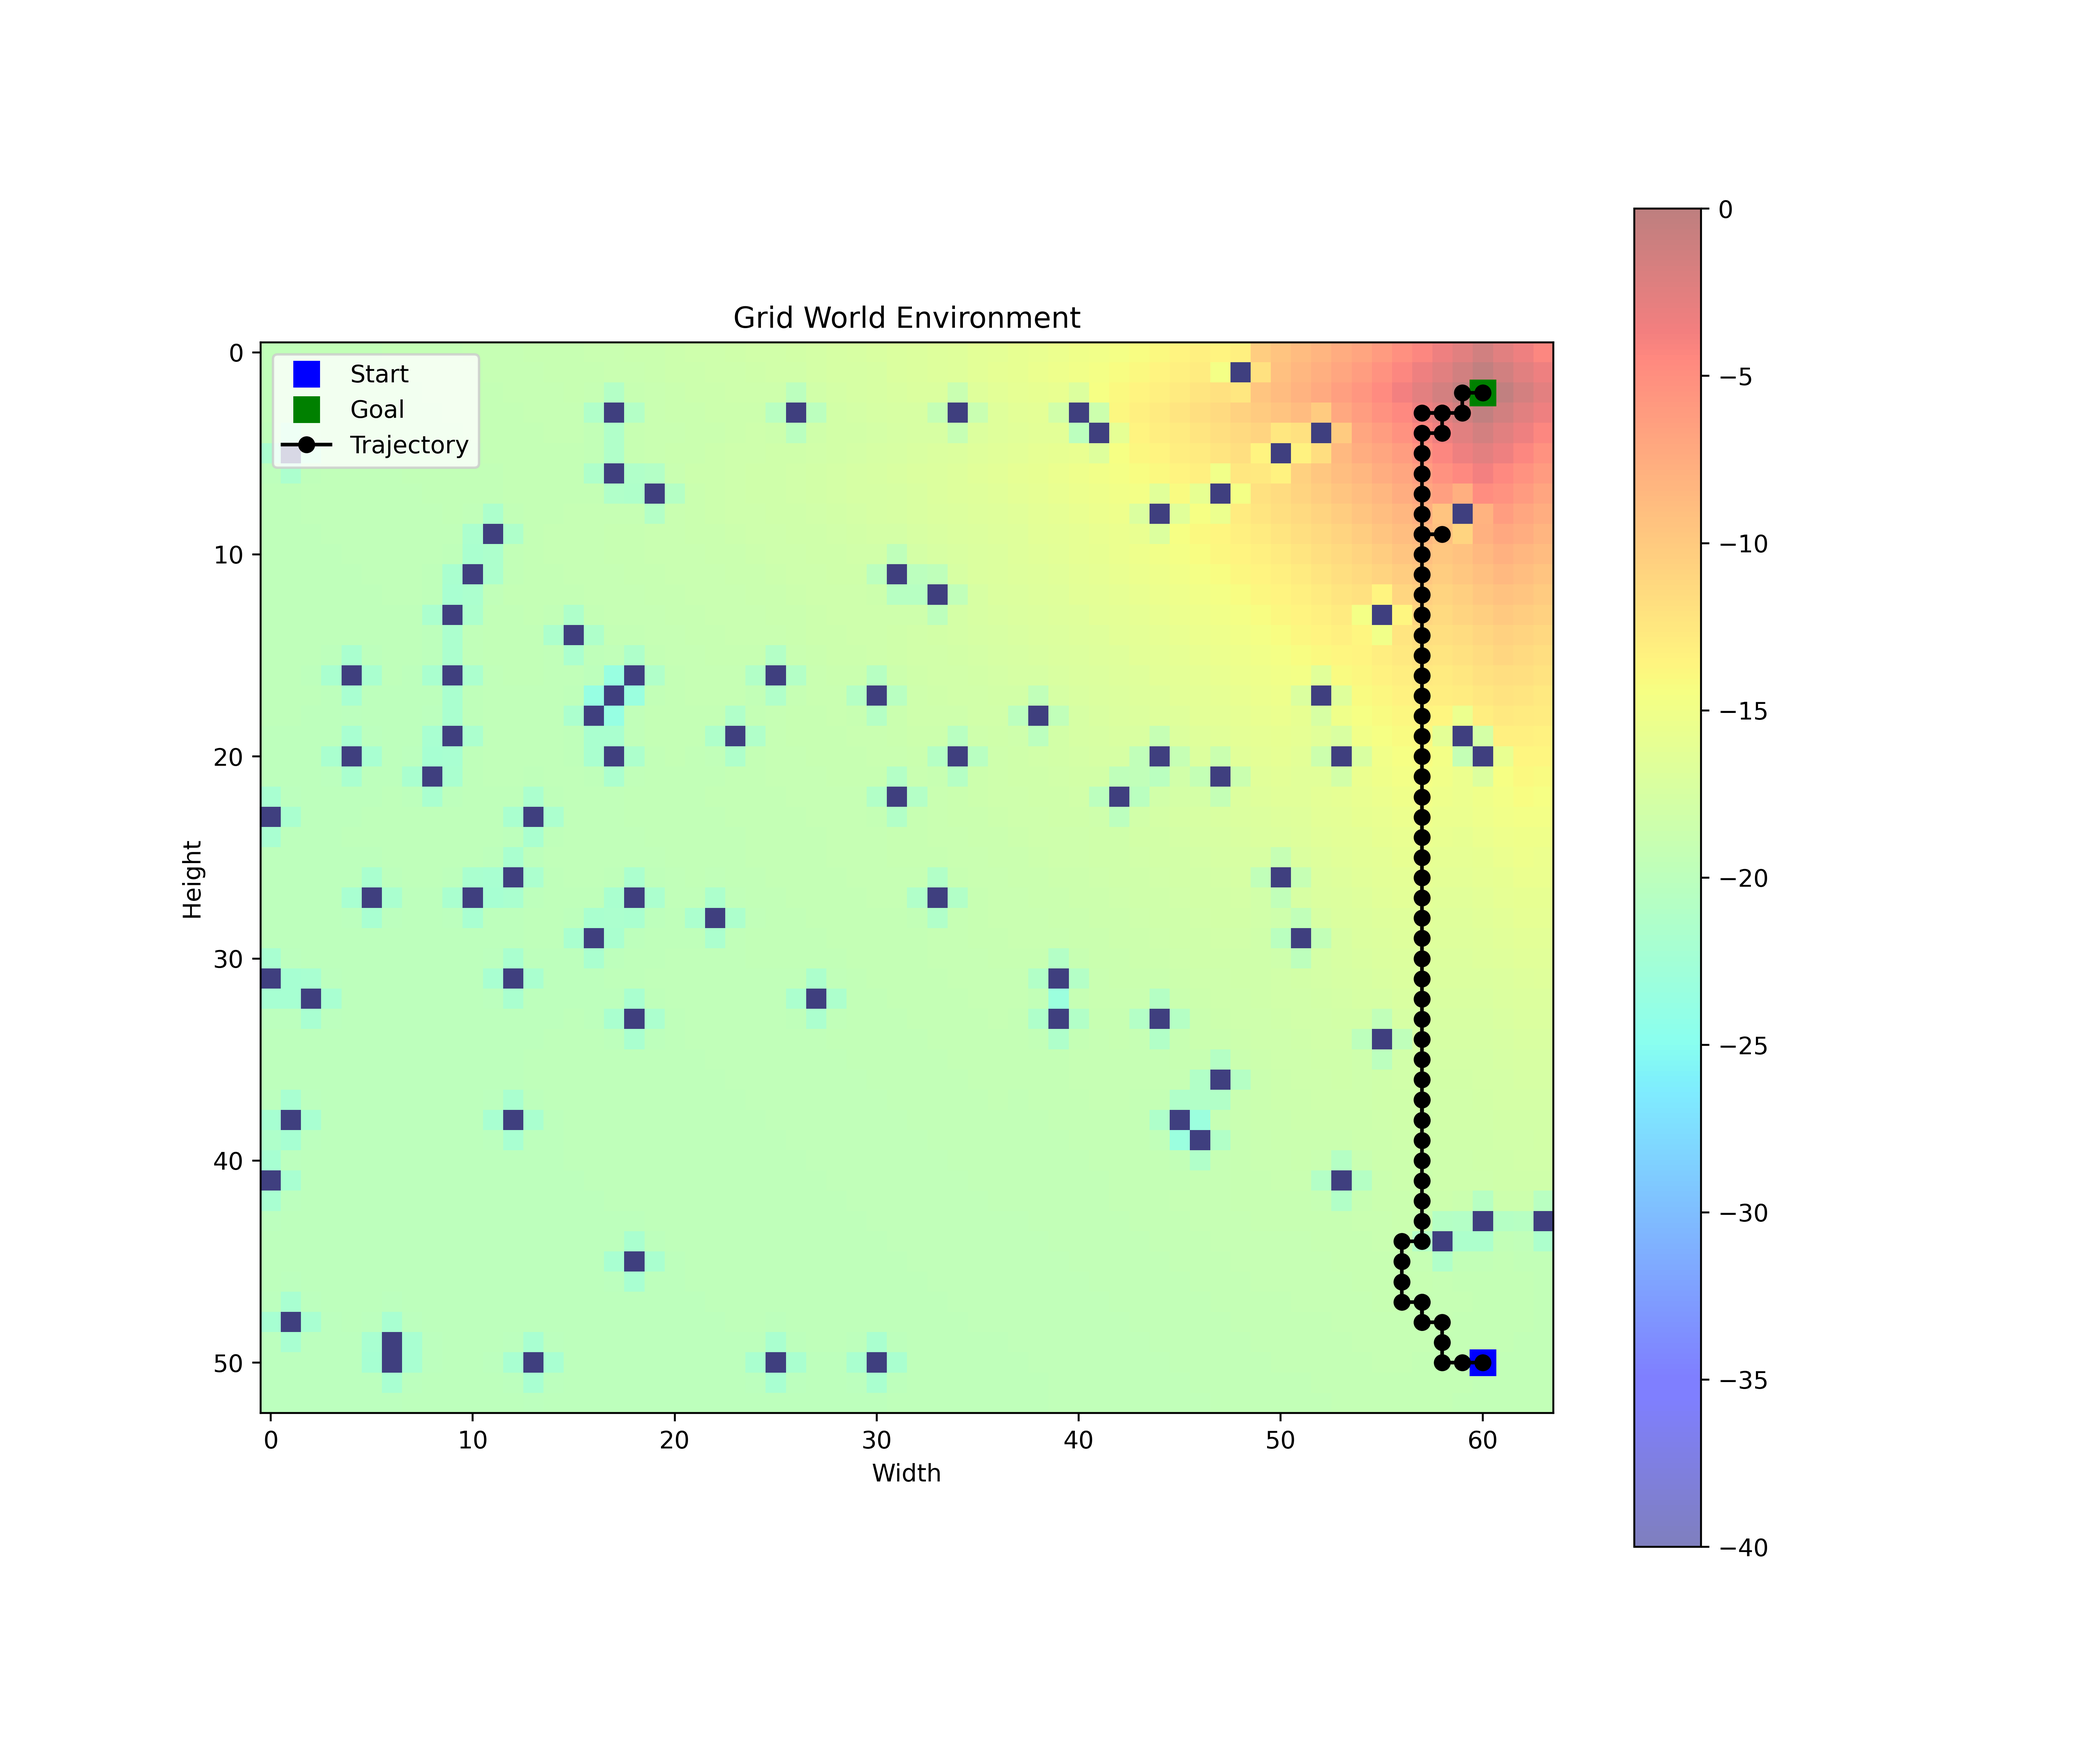
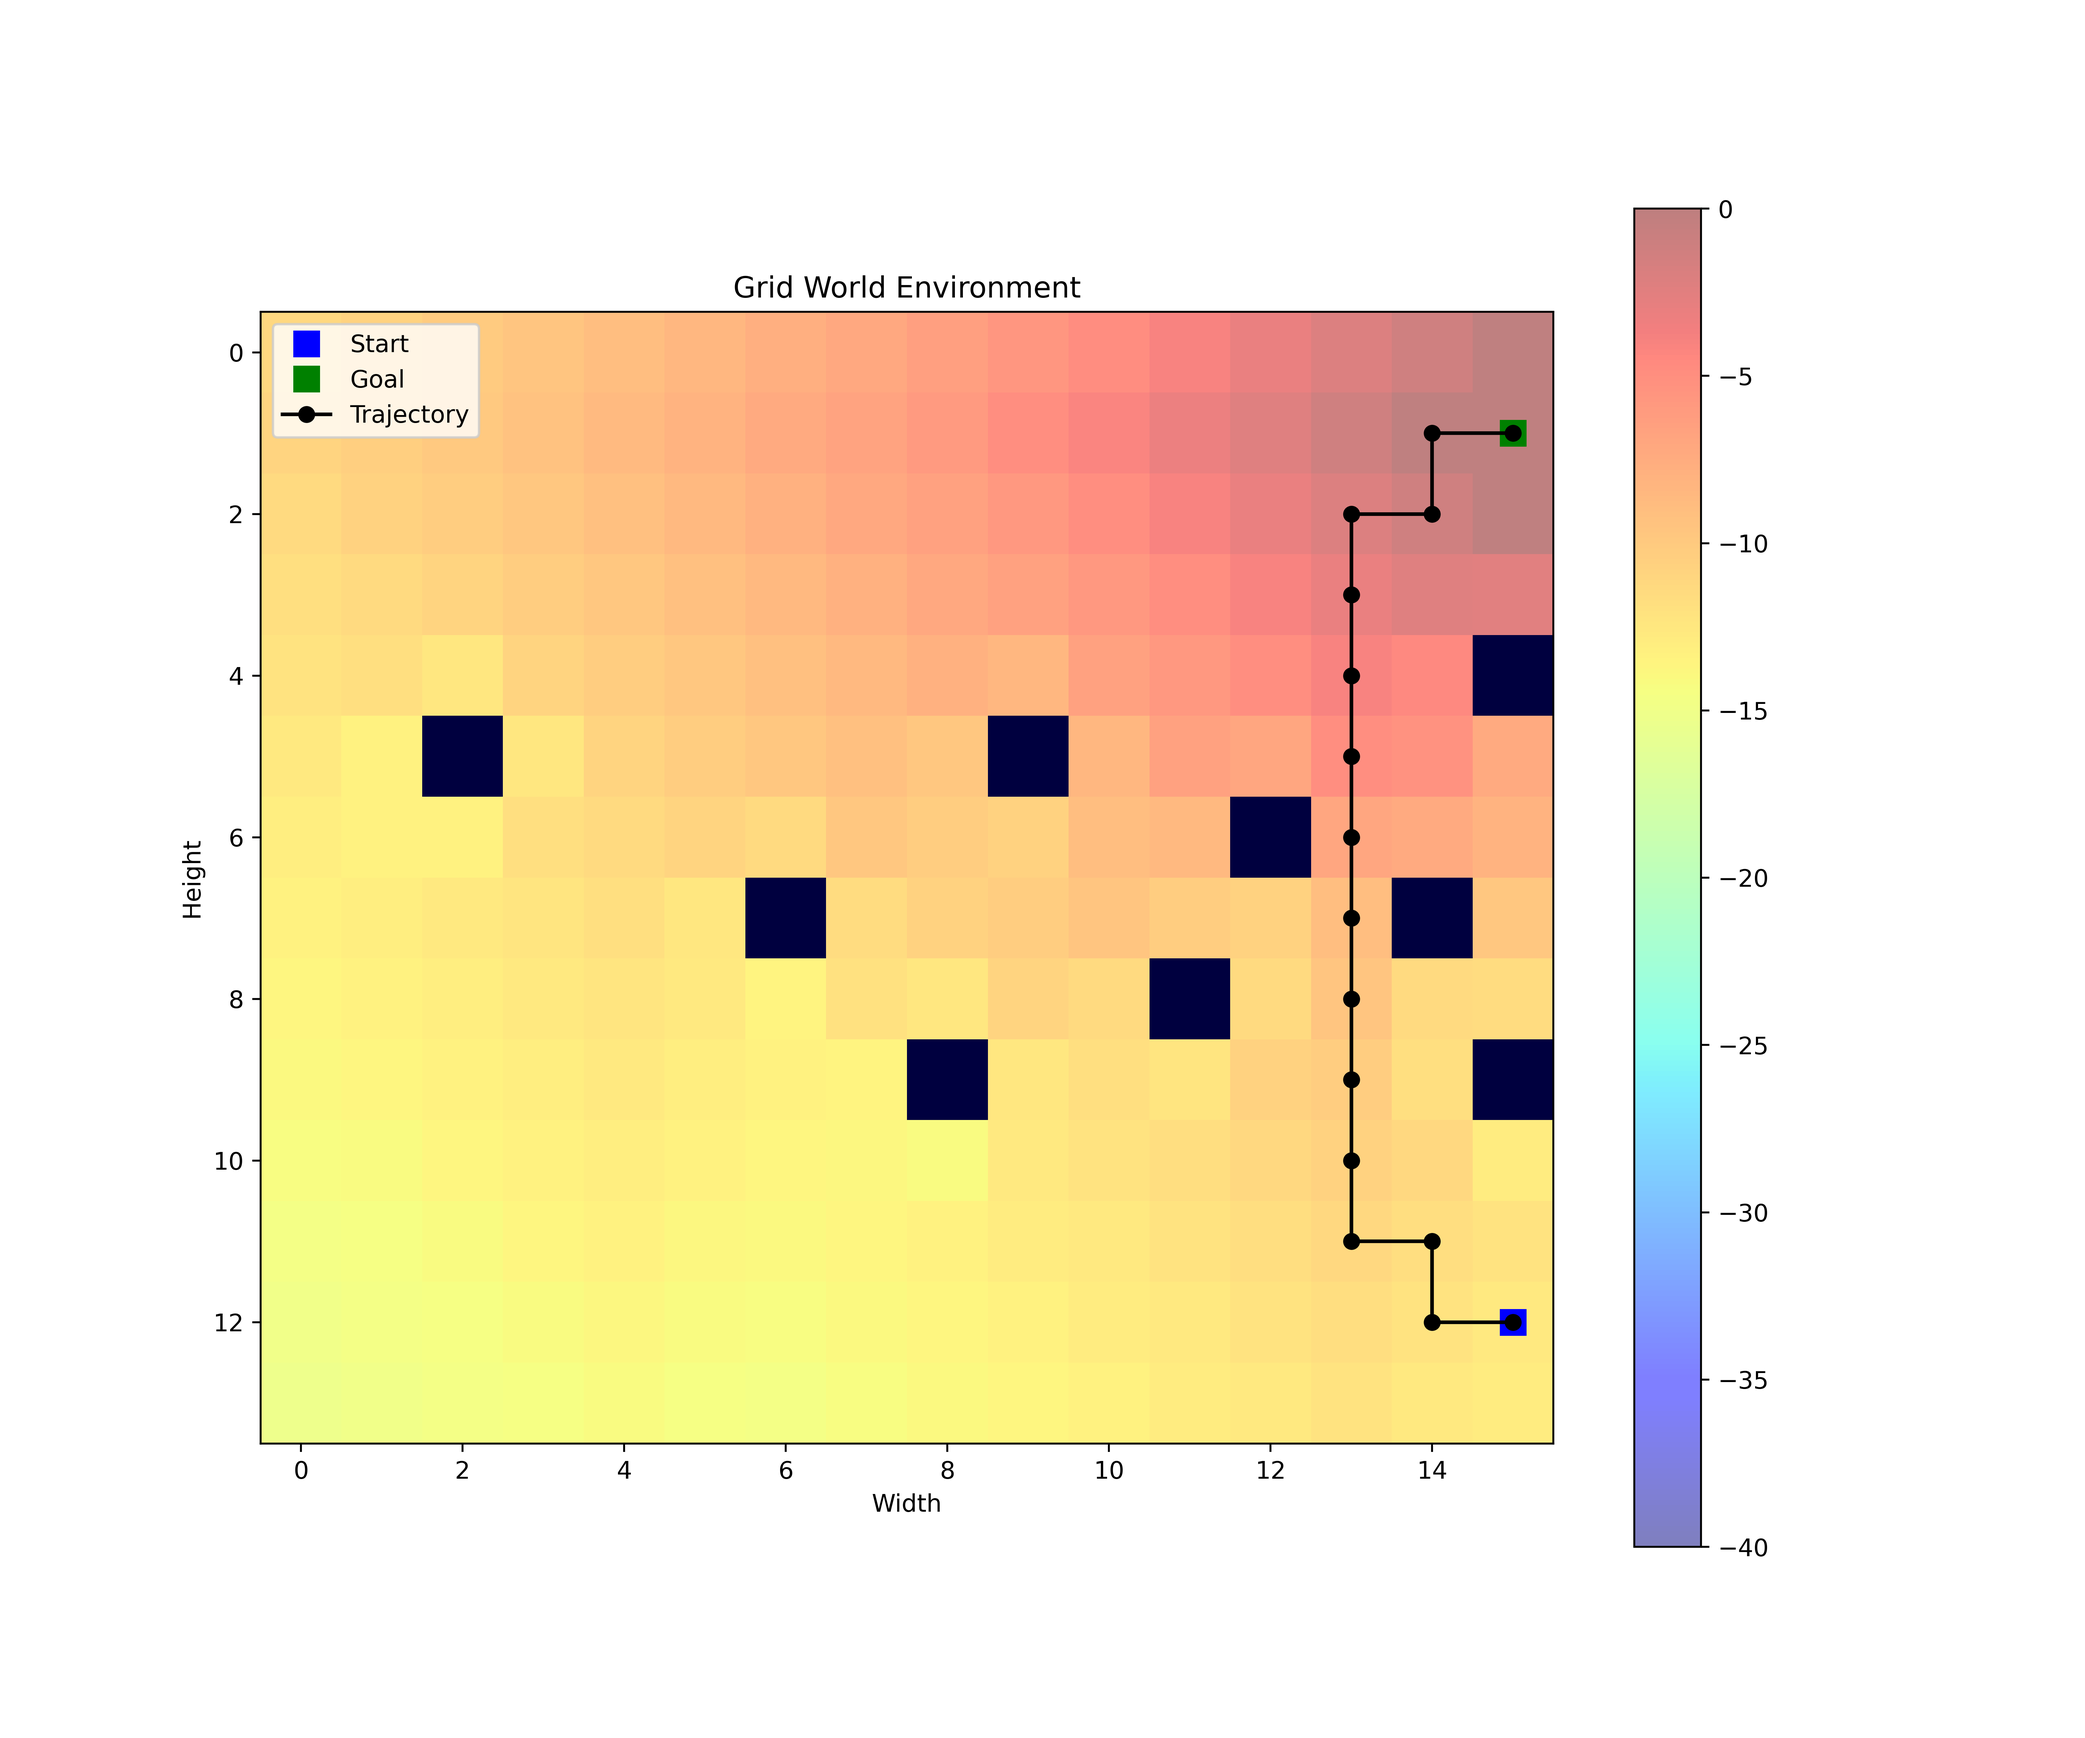
modified code to take as input images

diff --git a/gridworld.py b/gridworld.py
@@ -4,6 +4,8 @@ import numpy as np
 import matplotlib.pyplot as plt
 from typing import Tuple, List
 
+from utils import rgb2gray
+
 
 class GridWorldEnv:
     """
@@ -18,56 +20,40 @@ class GridWorldEnv:
         width (int): The width of the grid.
         height (int): The height of the grid.
         delta (float): The probability of a random action being taken instead of the chosen action.
-        num_obstacles (int): The number of obstacles in the grid.
-        grid (numpy.ndarray): The 2D array representing the grid world.
-        start_pos (Tuple[int, int]): The starting position of the agent (width, height).
-        goal_pos (Tuple[int, int]): The goal position (width, height).
-        current_pos (Tuple[int, int]): The current position of the agent (width, height).
-        actions (List[str]): The list of possible actions.
+        grid (np.ndarray): A 2D numpy array representing the grid world.
+        start_pos (Tuple[int, int]): The starting position of the agent (height, width).
+        goal_pos (Tuple[int, int]): The goal position (height, width).
+        current_pos (Tuple[int, int]): The current position of the agent (height, width).
+        actions (List[str]): A list of possible actions the agent can take ("up", "down", "left", "right").
     """
 
-    def __init__(self, width: int = 64, height: int = 53, delta: float = 0.1, num_obstacles: int = 80):
+    def __init__(self, path: str, delta: float = 0.05, goal_pos: Tuple[int, int] = (1, 15),
+                 start_pos: Tuple[int, int] = (12, 15)):
         """
-        Initialize the GridWorldEnv.
+        Initialize the grid world environment.
 
         Args:
-            width (int): The width of the grid. Defaults to 53.
-            height (int): The height of the grid. Defaults to 64.
-            delta (float): The probability of a random action. Defaults to 0.1.
-            num_obstacles (int): The number of obstacles to place. Defaults to 80.
+            path (str): The path to an image file representing the grid world.
+            delta (float): The probability of a random action being taken instead of the chosen action.
+            goal_pos (Tuple[int, int]): The goal position (height, width).
+            start_pos (Tuple[int, int]): The starting position of the agent (height, width).
         """
-        self.seed()
+        im = plt.imread(path)
+        im = rgb2gray(im)
+        height, width = im.shape
+
         self.width = width
         self.height = height
         self.delta = delta
-        self.num_obstacles = num_obstacles
 
-        self.grid = np.zeros((width, height))
-        self.start_pos = (60, 50)  # (width, height)
-        self.goal_pos = (60, 2)  # (width, height)
+        self.grid = np.zeros((height, width))
+        self.grid[np.where(im == 0)] = 1  # Mark obstacles
+        self.start_pos = start_pos
+        self.goal_pos = goal_pos
         self.current_pos = self.start_pos
-
-        self._place_obstacles()
-        self.grid[self.goal_pos] = 2  # Mark goal
 
         self.actions = ["up", "down", "left", "right"]
 
-    def seed(self, seed=720):
-        np.random.seed(seed)
-        random.seed(seed)
-
-    def _place_obstacles(self):
-        """
-        Place obstacles randomly in the grid.
-
-        This method ensures that obstacles are not placed at the start or goal positions.
-        """
-        obstacles = 0
-        while obstacles < self.num_obstacles:
-            x, y = np.random.randint(0, self.width), np.random.randint(0, self.height)
-            if (x, y) != self.start_pos and (x, y) != self.goal_pos and self.grid[x, y] == 0:
-                self.grid[x, y] = 1  # Mark obstacle
-                obstacles += 1
 
     def reset(self) -> Tuple[int, int]:
         """
@@ -84,6 +70,7 @@ class GridWorldEnv:
         Take a step in the environment based on the given action.
 
         Args:
+            state (Tuple[int, int]): The current state (width, height).
             action (str): The action to take. Must be one of "up", "down", "left", or "right".
 
         Returns:
@@ -121,14 +108,14 @@ class GridWorldEnv:
         prob_action = 1 - self.delta
         prob_other_actions = self.delta / 3
         prob_index = self.actions.index(action)
-        x, y = state
+        y, x = state
         probabilities = [prob_other_actions] * 4
         probabilities[prob_index] = prob_action
 
-        pos_up = (x, min(self.height - 1, y + 1))
-        pos_down = (x, max(0, y - 1))
-        pos_left = (max(0, x - 1), y)
-        pos_right = (min(self.width - 1, x + 1), y)
+        pos_up = (min(self.height - 1, y + 1), x)
+        pos_down = (max(0, y - 1), x)
+        pos_left = (y, max(0, x - 1))
+        pos_right = (y, min(self.width - 1, x + 1))
         positions = [pos_up, pos_down, pos_left, pos_right]
 
         return positions, probabilities
@@ -142,10 +129,10 @@ class GridWorldEnv:
         position of the agent.
         """
         plt.clf()
-        plt.imshow(self.grid.T, cmap='binary', origin='lower')
-        plt.plot(self.start_pos[0], self.start_pos[1], 'bs', markersize=10, label='Start')
-        plt.plot(self.goal_pos[0], self.goal_pos[1], 'gs', markersize=10, label='Goal')
-        plt.plot(self.current_pos[0], self.current_pos[1], 'rs', markersize=8, label='Agent')
+        plt.imshow(self.grid, cmap='binary', origin='lower')
+        plt.plot(self.start_pos[1], self.start_pos[0], 'bs', markersize=10, label='Start')
+        plt.plot(self.goal_pos[1], self.goal_pos[0], 'gs', markersize=10, label='Goal')
+        plt.plot(self.current_pos[1], self.current_pos[0], 'rs', markersize=8, label='Agent')
         plt.legend()
         if action:
             plt.title(f"Grid World Environment - Action: {action}")
@@ -153,29 +140,15 @@ class GridWorldEnv:
             plt.title("Grid World Environment")
         plt.xlabel("Width")
         plt.ylabel("Height")
-        # invert y axis to match the grid layout
+        # invert y-axis to match the grid layout
         plt.gca().invert_yaxis()
         plt.pause(0.5)
 
     def get_reward(self, next_state: Tuple[int, int]) -> float:
-        x, y = next_state
-        if self.grid[x, y] == 1:  # Hit an obstacle
+        y, x = next_state
+        if self.grid[y, x] == 1:  # Hit an obstacle
             return -40
 
         done = next_state == self.goal_pos
 
         return 0 if done else -1
-
-# # Example usage:
-# env = GridWorldEnv()
-# env.visualize()
-#
-# # Simulate a few steps
-# for _ in range(5):
-#     action = np.random.choice(env.actions)
-#
-#     if done:
-#         print("Episode ended.")
-#         break
-#
-# env.visualize()

diff --git a/value iteration.py b/value iteration.py
@@ -2,6 +2,8 @@ import numpy as np
 from matplotlib import pyplot as plt
 
 from gridworld import GridWorldEnv
+from utils import seed_everything, plot_trajectory
+
 plt.ion()
 
 
@@ -11,7 +13,7 @@ class ValueIteration:
         self.env = env
         self.gamma = gamma
         self.theta = theta
-        self.V = np.zeros((env.width, env.height))
+        self.V = np.zeros((env.height, env.width))
 
     def get_action_values(self, state):
         action_values = {}
@@ -34,63 +36,48 @@ class ValueIteration:
             delta = 0
             for width in range(self.env.width):
                 for height in range(self.env.height):
-                    current_v = self.V[width, height]
-                    action_values = self.get_action_values((width, height))
-                    self.V[width, height] = max(action_values)
-                    delta = max(delta, abs(current_v - self.V[width, height]))
+                    current_v = self.V[height, width]
+                    action_values = self.get_action_values((height, width))
+                    self.V[height, width] = max(action_values)
+                    delta = max(delta, abs(current_v - self.V[height, width]))
             self.max_iter -= 1
 
     def policy(self):
-        policy = np.zeros((self.env.width, self.env.height), dtype=int)
+        policy = np.zeros((self.env.height, self.env.width), dtype=int)
         for width in range(self.env.width):
             for height in range(self.env.height):
-                action_values = self.get_action_values((width, height))
-                policy[width, height] = np.argmax(action_values)
+                action_values = self.get_action_values((height, width))
+                policy[height, width] = np.argmax(action_values)
 
         string_policy = np.vectorize(lambda x: self.env.actions[x])(policy)
         return string_policy
 
 
-def plot_trajectory(positions, env, values):
-    plt.figure(figsize=(12, 10))
-    plt.imshow(env.grid.T, cmap='binary', origin='lower')
-    plt.imshow(values.T, cmap='jet', alpha=0.5, origin='lower')
-    plt.plot(env.start_pos[0], env.start_pos[1], 'bs', markersize=10, label='Start')
-    plt.plot(env.goal_pos[0], env.goal_pos[1], 'gs', markersize=10, label='Goal')
-    x, y = zip(*positions)
-    plt.plot(x, y, "o-", color="k", label="Trajectory")
-    plt.legend()
-    plt.colorbar()
-    plt.title("Grid World Environment")
-    plt.xlabel("Width")
-    plt.ylabel("Height")
-
-    # invert y axis to match the grid layout
-    plt.gca().invert_yaxis()
-    plt.savefig("trajectory.png", dpi=500, facecolor='white', edgecolor='none')
 
 
-def main():
-    vi = ValueIteration(GridWorldEnv())
-    vi.value_iteration()
-    env = GridWorldEnv()
+def run_episode(env, policy):
     done = False
     positions = []
     start_pos = env.reset()
-    policy = vi.policy()
-    print(vi.V[1, 5])
-    print(vi.V[env.goal_pos])
     current_pos = start_pos
-    plt.figure(figsize=(12, 10))
+    positions.append(current_pos)
     env.render()
     while not done:
-        positions.append(current_pos)
         action = policy[current_pos]
-        new_pos, reward, done = env.step(current_pos, action)
-        env.render(action=action)
-        print(f"Action: {action}, New position: {new_pos}, Reward: {reward}, Done: {done}")
-        current_pos = new_pos
-    positions.append(current_pos)
+        next_state, reward, done = env.step(current_pos, action)
+        env.render()
+        positions.append(next_state)
+        current_pos = next_state
+    return positions
+
+
+def main():
+    seed_everything()
+    vi = ValueIteration(GridWorldEnv('gridworld3.png'))
+    vi.value_iteration()
+    env = GridWorldEnv('gridworld3.png')
+    plt.figure(figsize=(12, 10))
+    positions = run_episode(env, vi.policy())
     plot_trajectory(positions, env, values=vi.V)
 
 

diff --git a/utils.py b/utils.py
@@ -1,0 +1,40 @@
+import os
+import random
+
+import numpy as np
+from matplotlib import pyplot as plt
+
+
+def rgb2gray(rgb):
+    return np.dot(rgb[..., :3], [0.2989, 0.5870, 0.1140])
+
+
+def seed_everything(seed=720):
+    """
+    Seeds for reproducibility of results
+
+    Arguments:
+        seed (int): Number of the seed
+    """
+    np.random.seed(seed)
+    random.seed(seed)
+    os.environ['PYTHONHASHSEED'] = str(seed)
+
+
+def plot_trajectory(positions, env, values):
+    plt.figure(figsize=(12, 10))
+    plt.imshow(env.grid, cmap='binary', origin='lower')
+    plt.imshow(values, cmap='jet', alpha=0.5, origin='lower')
+    plt.plot(env.start_pos[1], env.start_pos[0], 'bs', markersize=10, label='Start')
+    plt.plot(env.goal_pos[1], env.goal_pos[0], 'gs', markersize=10, label='Goal')
+    y, x = zip(*positions)
+    plt.plot(x, y, "o-", color="k", label="Trajectory")
+    plt.legend()
+    plt.colorbar()
+    plt.title("Grid World Environment")
+    plt.xlabel("Width")
+    plt.ylabel("Height")
+
+    # invert y axis to match the grid layout
+    plt.gca().invert_yaxis()
+    plt.savefig("trajectory.png", dpi=500, facecolor='white', edgecolor='none')
